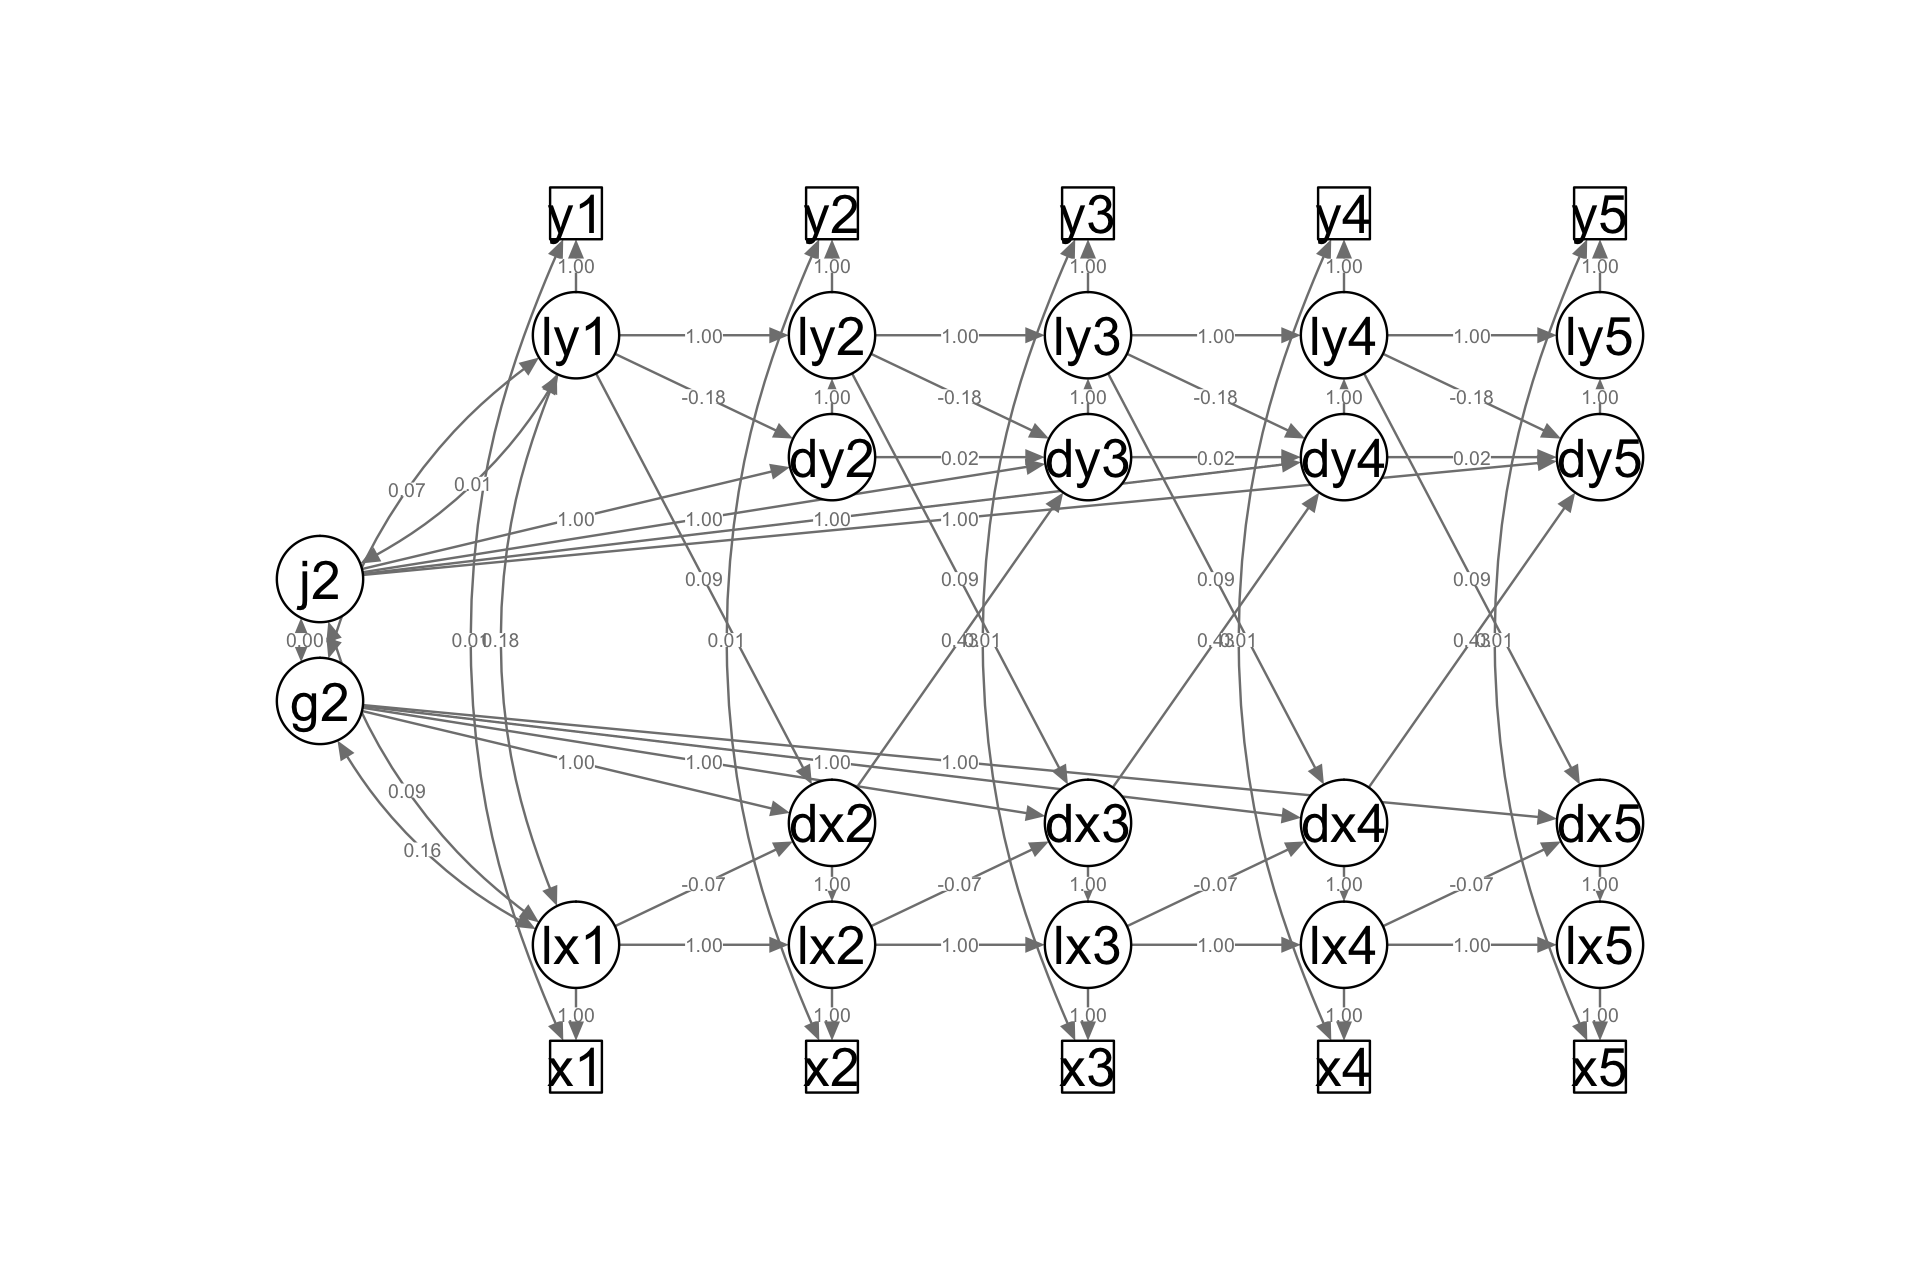
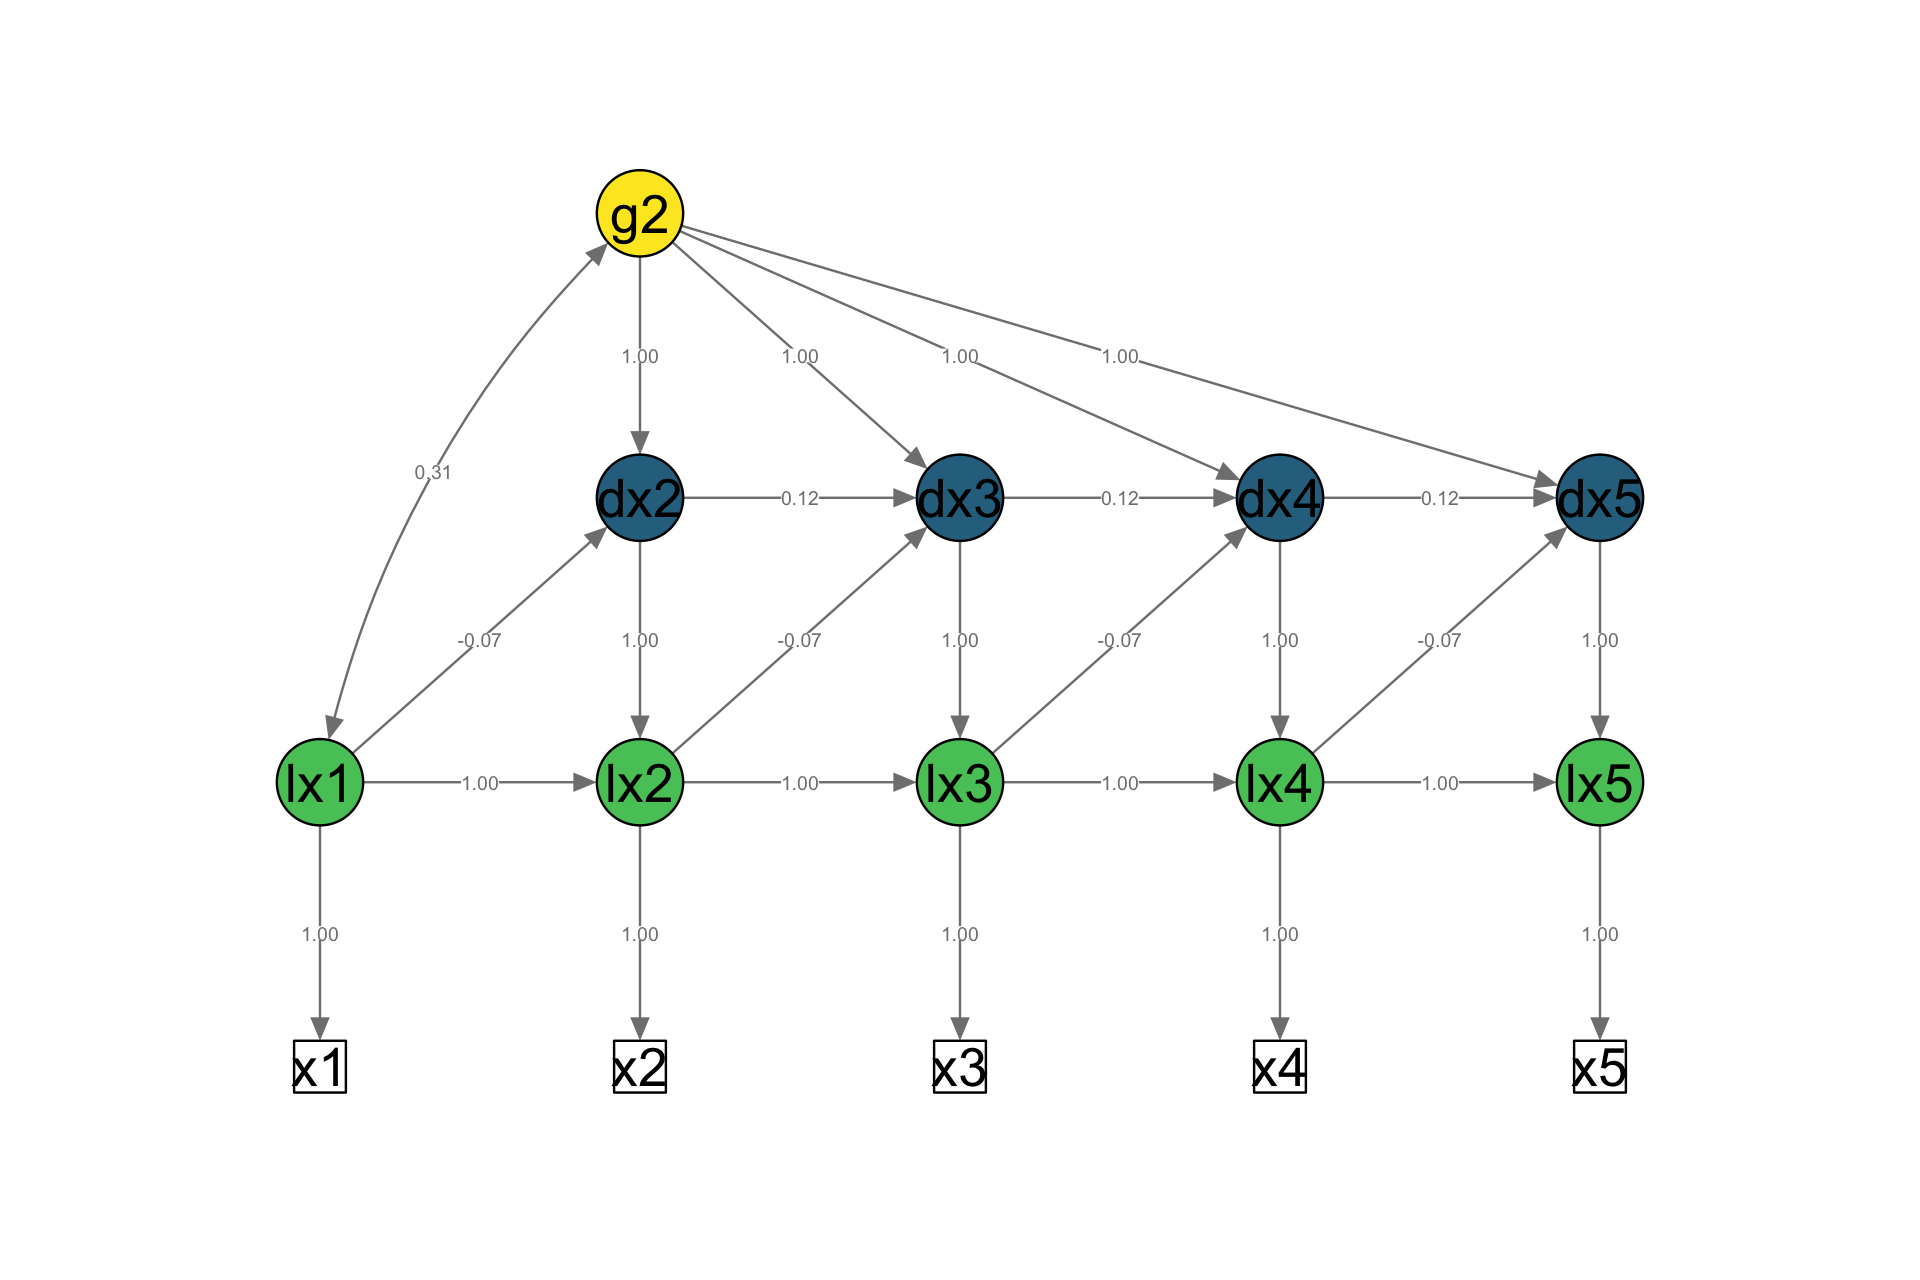
update readme

diff --git a/README.md b/README.md
@@ -10,11 +10,11 @@ status](https://travis-ci.org/milanwiedemann/lcsm.svg?branch=master)](https://tr
 status](https://ci.appveyor.com/api/projects/status/swwgfqdufr5xmxf2?svg=true)](https://ci.appveyor.com/project/milanwiedemann/lcsm)
 [![lcsm-version](https://img.shields.io/badge/Version-0.0.6-brightgreen.svg)](https://github.com/milanwiedemann/lcsm)
 
-This package contains some helper functions to specify and analyse
+This package offers some helper functions to specify and analyse
 univariate and bivariate latent change score models (LCSM) using
 [lavaan](http://lavaan.ugent.be/) (Rosseel,
-[2012](http://www.jstatsoft.org/v48/i02/)) For details about this method
-see for example McArdle
+[2012](http://www.jstatsoft.org/v48/i02/)). For details about this
+method see for example McArdle
 ([2009](http://www.annualreviews.org/doi/10.1146/annurev.psych.60.110707.163612)),
 Ghisletta ([2012](https://doi.org/10.1080/10705511.2012.713275)), Grimm
 et al. ([2012](https://doi.org/10.1080/10705511.2012.659627)), and
@@ -26,11 +26,12 @@ score modeling works. This package combines the strengths of other R
 packages like [lavaan](http://lavaan.ugent.be/),
 [broom](https://broom.tidyverse.org), and
 [semPlot](https://cran.r-project.org/web/packages/semPlot/index.html) by
-generating lavaan syntax that helps these packages work together. 
+generating lavaan syntax that helps these packages work together.
 
-An interactive web application **[`shinychange`](https://milanwiedemann.shinyapps.io/shinychange)**
-illustrates some functions of this package.
-This is work in progress and feedback is very welcome!
+An interactive web application
+**[`shinychange`](https://milanwiedemann.shinyapps.io/shinychange)**
+illustrates some functions of this package. This is work in progress and
+feedback is very welcome\!
 
 ## Installation
 
@@ -80,7 +81,7 @@ Here are a few examples how to use the `lcsm` package.
 library(lcsm)
 ```
 
-### 1\. Visualise data
+### Visualise data
 
 Longitudinal data can be visualised using the `plot_trajectories()`
 function. Here only 30% of the data is visualised using the argument
@@ -111,14 +112,14 @@ ggpubr::ggarrange(plot_x,
                   plot_y,
                   labels = c("a", "b"))
 #> Warning: Removed 13 rows containing missing values (geom_path).
-#> Warning: Removed 80 rows containing missing values (geom_point).
-#> Warning: Removed 41 rows containing missing values (geom_path).
-#> Warning: Removed 156 rows containing missing values (geom_point).
+#> Warning: Removed 75 rows containing missing values (geom_point).
+#> Warning: Removed 29 rows containing missing values (geom_path).
+#> Warning: Removed 146 rows containing missing values (geom_point).
 ```
 
 <img src="man/figures/README-unnamed-chunk-3-1.png" width="100%" />
 
-### 2\. Fit LCS models
+### Fit LCS models
 
 In a first step the functions `specify_uni_lcsm()` and
 `specify_bi_lcsm()` are used to specify the lavaan syntax for a specific
@@ -129,7 +130,7 @@ The following table descibes some of the different model specifications
 that the `model` arguments can take. More detail can be found in the
 help files `help(fit_uni_lcsm)`.
 
-#### 2.1. Fit univariate LCS models
+#### Fit univariate LCS models
 
 | Model specification | Description                     |
 | :------------------ | :------------------------------ |
@@ -410,7 +411,7 @@ cat(syntax)
 
 </details>
 
-#### 2.2. Fit bivariate LCS models
+#### Fit bivariate LCS models
 
 The function `fit_bi_lcsm()` allowes to specify two univariate LCS
 models using the arguments `model_x` and `model_x`. These two constructs
@@ -465,7 +466,7 @@ fit_bi_lcsm(data = data_bi_lcsm,
 #>     for the Yuan-Bentler correction (Mplus variant)
 ```
 
-### 3\. Extract fit statistics and parmeters
+### Extract fit statistics and parmeters
 
 The main underlying functions to extract parameters and fit statistics
 come from the `broom` package: `broom::tidy()` and `broom::glance()`.
@@ -528,13 +529,74 @@ kable(param_bi_lcsm_01, digits = 3)
 | delta\_lag\_xy |    0.140 |     0.006 |    23.837 |   0.000 |    0.128 |     0.152 |
 | xi\_lag\_yx    |    0.360 |     0.037 |     9.634 |   0.000 |    0.287 |     0.433 |
 
-### 4\. Plot simplified path diagrams of LCS models
+### Plot simplified path diagrams of LCS models
 
 This function is work in progress and can only plot univariate and
 bivariate LCS models that were specified with `fit_uni_lcsm()` or
 `fit_bi_lcsm()`. Modified LCS models will probably return errors as the
-layout matrix that gets created by this function only supports some
-basic layouts.
+layout matrix that gets created by this plot function only supports the
+specifications that can be modelled with this package. The input
+arguments for plotting a simplified path dioagram are:
+
+  - the estimated lavaan object `lavaan_object`,
+  - the `lavaan_syntax` and ,
+  - `lcsm` indicating whether the LCS model is “univariate” or
+    “bivariate”
+
+Optional arguments can be used to change the look of the plot, for
+example:
+
+  - `lcsm_colours` can be used to highlight the different parts of the
+    latent change score model
+      - white: observed scores
+      - green: latent true scores
+      - blue: latent change scores
+      - yellow: latent change scores
+
+Further arguments can be passed on to `semPlot::semPaths()`, for
+example:
+
+  - `what`, **“path”** to show unweighted gray edges, **“par”** to show
+    parameter estimates as weighted (green/red) edges  
+  - `whatLabels`, **“label”** to show edege names as label or **“est”**
+    for parameter estimates, **“hide”** to hide edge labels
+
+#### Univariate LCS model
+
+``` r
+# Fit bivariate lcsm and save the results 
+uni_lavaan_results <- fit_uni_lcsm(data = data_uni_lcsm, 
+                                   var = c("x1", "x2", "x3", "x4", "x5"),
+                                   model = list(alpha_constant = TRUE, 
+                                                beta = TRUE, 
+                                                phi = TRUE)
+                                  )
+#> Warning in lav_data_full(data = data, group = group, cluster = cluster, : lavaan WARNING: some cases are empty and will be ignored:
+#>   239
+
+# Save the lavaan syntax that is used to create the layout matrix for semPlot
+uni_lavaan_syntax <- fit_uni_lcsm(data = data_uni_lcsm, 
+                                  var = c("x1", "x2", "x3", "x4", "x5"),
+                                  model = list(alpha_constant = TRUE, 
+                                               beta = TRUE, 
+                                               phi = TRUE),
+                                  return_lavaan_syntax = TRUE, 
+                                  return_lavaan_syntax_string = TRUE)
+
+# Plot the results
+plot_lcsm(lavaan_object = uni_lavaan_results, 
+          lavaan_syntax = uni_lavaan_syntax,
+          lcsm_colours = TRUE,
+          lcsm = "univariate")
+#> Registered S3 methods overwritten by 'huge':
+#>   method    from   
+#>   plot.sim  BDgraph
+#>   print.sim BDgraph
+```
+
+<img src="man/figures/README-unnamed-chunk-9-1.png" width="100%" />
+
+#### Bivariate LCS model
 
 ``` r
 # Fit bivariate lcsm and save the results 
@@ -550,7 +612,7 @@ bi_lavaan_results <- fit_bi_lcsm(data = data_bi_lcsm,
                                  coupling = list(delta_lag_xy = TRUE, 
                                                  xi_lag_yx = TRUE))
 
-# Save the lavaan syntax that was used to create the layout matrix for semPlot
+# Save the lavaan syntax that is used to create the layout matrix for semPlot
 bi_lavaan_syntax <- fit_bi_lcsm(data = data_bi_lcsm, 
                                 var_x = c("x1", "x2", "x3", "x4", "x5"),
                                 var_y = c("y1", "y2", "y3", "y4", "y5"),
@@ -568,16 +630,14 @@ bi_lavaan_syntax <- fit_bi_lcsm(data = data_bi_lcsm,
 # Plot the results
 plot_lcsm(lavaan_object = bi_lavaan_results, 
           lavaan_syntax = bi_lavaan_syntax,
+          lcsm_colours = TRUE,
+          whatLabels = "hide",
           lcsm = "bivariate")
-#> Registered S3 methods overwritten by 'huge':
-#>   method    from   
-#>   plot.sim  BDgraph
-#>   print.sim BDgraph
 ```
 
-<img src="man/figures/README-unnamed-chunk-9-1.png" width="100%" />
+<img src="man/figures/README-unnamed-chunk-10-1.png" width="100%" />
 
-### 5\. Simulate data
+### Simulate data
 
 The functions `sim_uni_lcsm()` and `sim_bi_lcsm()` simulate data based
 on some some parameters that can be specified. See the tables
@@ -605,16 +665,16 @@ sim_uni_lcsm(timepoints = 5,
 #> # A tibble: 1,000 x 6
 #>       id    x1    x2    x3    x4    x5
 #>    <int> <dbl> <dbl> <dbl> <dbl> <dbl>
-#>  1     1  19.7  19.8  19.7  19.6  19.3
-#>  2     2  19.5  19.1  18.0  16.6  NA  
-#>  3     3  21.9  23.0  NA    27.6  NA  
-#>  4     4  NA    20.2  18.5  NA    15.5
-#>  5     5  21.1  22.8  23.7  25.2  NA  
-#>  6     6  21.8  19.8  15.3  NA    NA  
-#>  7     7  NA    17.5  18.2  16.3  15.3
-#>  8     8  21.5  20.6  19.2  NA    NA  
-#>  9     9  NA    19.7  20.1  NA    19.9
-#> 10    10  20.1  NA    19.5  NA    17.3
+#>  1     1  20.9  20.4  21.6  NA   19.3 
+#>  2     2  21.2  21.7  23.1  24.5 25.4 
+#>  3     3  21.0  22.5  23.6  25.1 27.7 
+#>  4     4  NA    21.6  22.2  NA   22.9 
+#>  5     5  NA    NA    NA    NA   15.1 
+#>  6     6  22.1  23.2  NA    25.4 NA   
+#>  7     7  NA    21.4  21.0  NA   22.7 
+#>  8     8  21.6  NA    21.6  21.7 21.6 
+#>  9     9  NA    16.8  NA    11.0  8.11
+#> 10    10  21.0  NA    17.5  15.6 NA   
 #> # … with 990 more rows
 ```
 
@@ -843,6 +903,7 @@ models:
 | sigma\_g2lx1 | Covariance of change factor (g2) with the initial true score x |
 | sigma\_g3lx1 | Covariance of change factor (g3) with the initial true score x |
 | sigma\_g2g3  | Covariance of change factors within construct x                |
+| beta\_x      | Proportional change x                                          |
 | phi\_x       | Autoregression of change scores x                              |
 
 ### Bivariate LCS models
@@ -862,6 +923,7 @@ Y**.
 | alpha\_g3           | Mean of change factor (g3)                                             |
 | sigma2\_g2          | Variance of change factor (g2)                                         |
 | sigma2\_g3          | Variance of change factor (g3)                                         |
+| beta\_x             | Proportional change x                                                  |
 | sigma\_g2lx1        | Covariance of change factor (g2) with the initial true score x (lx1)   |
 | sigma\_g3lx1        | Covariance of change factor (g3) with the initial true score x (lx1)   |
 | sigma\_g2g3         | Covariance of change factors within construct x                        |
@@ -874,6 +936,7 @@ Y**.
 | alpha\_j3           | Mean of change factor (j3)                                             |
 | sigma2\_j2          | Variance of change factor (j2)                                         |
 | sigma2\_j3          | Variance of change factor (j3)                                         |
+| beta\_y             | Proportional change y                                                  |
 | sigma\_j2ly1        | Covariance of change factor (j2) with the initial true score y (ly1)   |
 | sigma\_j3ly1        | Covariance of change factor (j3) with the initial true score y (ly1)   |
 | sigma\_j2j3         | Covariance of change factors within construct y                        |
